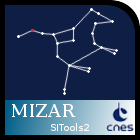
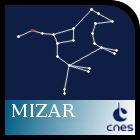
Updates splash screen Fix problem with spinner loading

Changed region(s): [[0.3429, 0.8857, 0.6571, 0.9429]]

diff --git a/src/MizarWidgetAPI.js b/src/MizarWidgetAPI.js
@@ -632,6 +632,8 @@ define(["jquery", "underscore-min",
         };
 
         MizarWidgetAPI.prototype.createMarsContext = function() {
+            this.unsubscribeCtx("baseLayersReady", RenderingGlobeFinished);
+            $(mizarDiv).find('#loading').show();
             var userOptions = this.options;
             var selectedCtx = _.find(this.options.ctx, function(obj) { return obj.name === "mars" });
             //mizarAPI.createContext(this.mode, selectedCtx.description[0]);
@@ -643,6 +645,7 @@ define(["jquery", "underscore-min",
                     mizarAPI.setBaseElevation(layer.name);
                 }
             }
+            this.subscribeCtx("baseLayersReady", RenderingGlobeFinished);
             self.mizarWidgetGui.setUpdatedActivatedContext(self.getContext());
             self.setAngleDistanceSkyGui(false);
             self.setAngleDistancePlanetGui(true);
@@ -763,6 +766,10 @@ define(["jquery", "underscore-min",
 
         MizarWidgetAPI.prototype.setBackgroundLayer = function(name) {
             return mizarAPI.setBackgroundLayer(name);
+        };
+
+        MizarWidgetAPI.prototype.hasSkyContext = function() {
+            return mizarAPI.getSkyContext() != null;
         };
 
         MizarWidgetAPI.prototype.createLayerFromFits = function (name, fits) {

diff --git a/src/gui/BackgroundLayersView.js b/src/gui/BackgroundLayersView.js
@@ -162,7 +162,7 @@ define(["jquery", "underscore-min", "./DynamicImageView", "./PickingManager", ".
                 selectedLayer = layer;
 
                 // Show background loading spinner
-                $('#loading').show(300);
+                //$('#loading').show(300);
 
                 // Set shader callback for choosen layer
                 if (!_.isEmpty(backgroundDiv)) {
@@ -207,7 +207,7 @@ define(["jquery", "underscore-min", "./DynamicImageView", "./PickingManager", ".
                 // Back to sky button if in planet mode
                 var self = this;
 
-                if (mizarWidgetAPI.getMode() === mizarWidgetAPI.CONTEXT.Planet && !mizarWidgetAPI.getCrs().isFlat()) {
+                if (mizarWidgetAPI.getMode() === mizarWidgetAPI.CONTEXT.Planet && !mizarWidgetAPI.getCrs().isFlat() && mizarWidgetAPI.hasSkyContext()) {
                     $el.find('.backToSky').button().click(function (event) {
                         mizarWidgetAPI.toggleToSky();
                     });

diff --git a/css/style.css b/css/style.css
@@ -146,8 +146,19 @@ body {
     height: 48px;
     background: url(images/loading.gif) no-repeat;
     position: absolute;
-    left: 48%;
-    top: 55%;
+    display: none;
+    left: 50%;
+    top: 50%;
+    z-index: 200;
+}
+
+#loadingSplash {
+    width: 113px;
+    height: 113px;
+    background: url(images/pleaseWait.gif) no-repeat;
+    position: absolute;
+    left: 46%;
+    top: 40%;
     z-index: 200;
 }
 
@@ -155,14 +166,23 @@ body {
     width:100%;
     height:100%;
     position: absolute;
-    background-color: black;
+    background-color: white;
     z-index: 100;
 }
+#splash > h1 {
+    text-align: center;
+    color: rgba(34, 12, 64, 0.6);
+    font-size:280%;
+    padding-top: 5%;
+}
 #splash-logo {
-    height:100%;
+    position:absolute;
     display: block;
+    bottom: 10px;
     margin-left: auto;
-    margin-right: auto
+    margin-right: auto;
+    left:35%;
+    width:30%;
 }
 
 /*** Navigation options block(nameResolver, compass) ***/

diff --git a/templates/mizarCore.html b/templates/mizarCore.html
@@ -13,7 +13,9 @@
 </div>
 
 <div id="splash">
-    <img id="splash-logo" src="../css/images/splash.png">
+    <h1>Welcome to Mizar</h1>
+    <div id="loadingSplash"></div>
+    <img id="splash-logo" src="../css/images/logo_cnes.png">
 </div>
 <div id="loading"></div>
 
